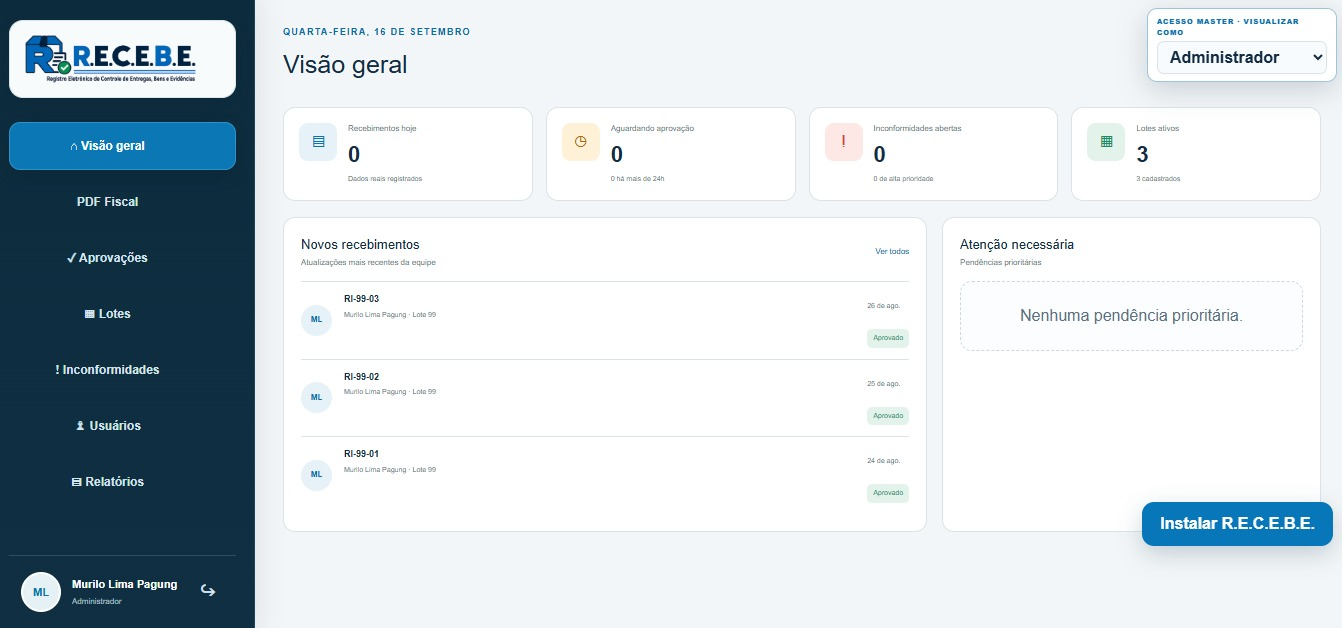
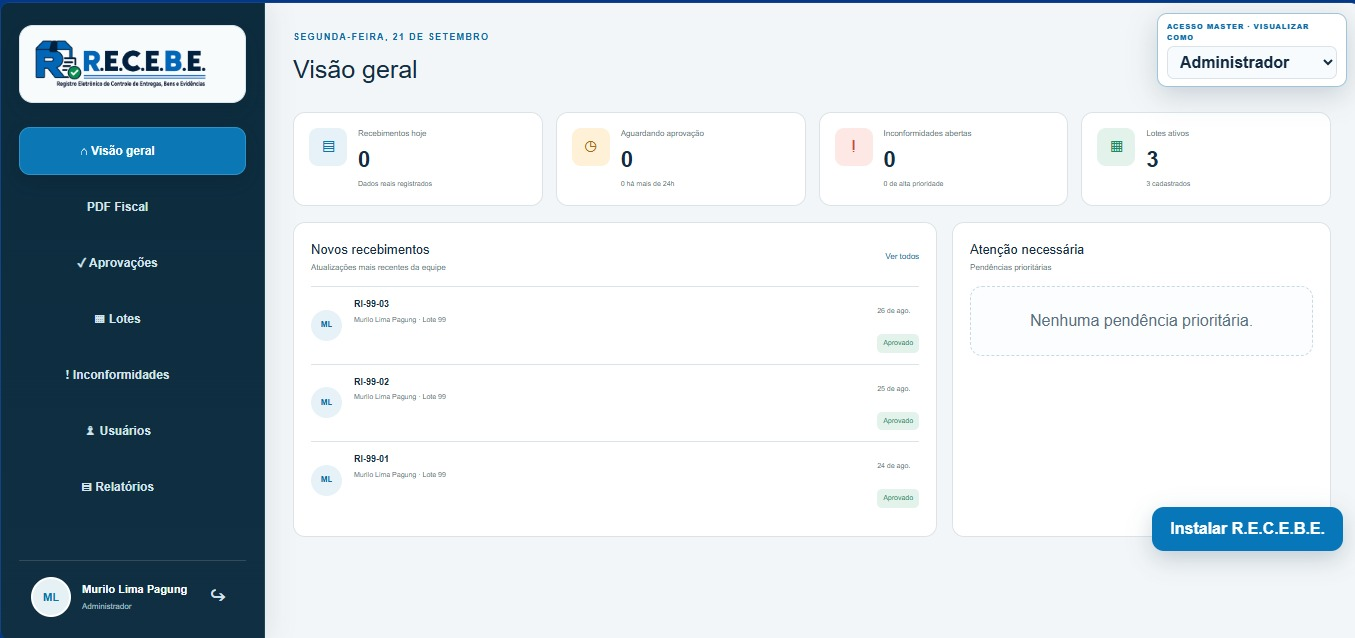
Update Site source

diff --git a/components/orbit-showcase.tsx b/components/orbit-showcase.tsx
@@ -5,35 +5,31 @@ import Link from "next/link";
 import { ArrowLeft, ArrowRight, Pause, Play } from "lucide-react";
 import { useEffect, useState } from "react";
 
-type Slide = { src: string; label: string; fit?: "contain" | "cover" };
-type Demo = { name: string; category: string; href: string; slides: Slide[] };
+type Slide = { src: string; label: string };
+type Demo = { name: string; summary: string; href: string; slides: Slide[] };
 
 const demos: Demo[] = [
-  { name: "M.I.R.A.", category: "Monitoramento e análise operacional", href: "/projetos/mira", slides: [
-    { src: "/images/demos/mira-entrada.jpeg", label: "Apresentação do sistema" },
-    { src: "/images/demos/mira-reservatorios.jpeg", label: "Visão dos reservatórios" },
-    { src: "/images/demos/mira-graficos.jpeg", label: "Análise das medições" },
+  { name: "M.I.R.A.", summary: "Sistema web para monitoramento e análise de reservatórios.", href: "/projetos/mira", slides: [
+    { src: "/images/demos/mira-entrada.jpeg", label: "Apresentação do M.I.R.A." },
+    { src: "/images/demos/mira-reservatorios.jpeg", label: "Monitoramento dos reservatórios" },
   ] },
-  { name: "R.E.C.E.B.E.", category: "Registro em campo e acompanhamento", href: "/projetos/recebe", slides: [
-    { src: "/images/demos/recebe-mobile.jpeg", label: "Registro mobile", fit: "contain" },
-    { src: "/images/demos/recebe-gestao.jpeg", label: "Visão administrativa" },
+  { name: "R.E.C.E.B.E.", summary: "Sistema web e mobile para registrar e acompanhar recebimentos em campo.", href: "/projetos/recebe", slides: [
+    { src: "/images/demos/recebe-gestao.jpeg", label: "Painel de gestão do R.E.C.E.B.E." },
+    { src: "/images/demos/recebe-em-campo.png", label: "Ilustração do uso mobile em campo" },
   ] },
-  { name: "P.R.I.S.M.A.", category: "Organização inteligente de documentos", href: "/projetos/prisma", slides: [
+  { name: "P.R.I.S.M.A.", summary: "Automação para conferir e organizar documentos de funcionários.", href: "/projetos/prisma", slides: [
     { src: "/images/demos/prisma-inicio.jpeg", label: "Seleção da rotina" },
-    { src: "/images/demos/prisma-recibos.jpeg", label: "Envio e conferência dos arquivos" },
-    { src: "/images/demos/prisma-instalador.jpeg", label: "Organização nas pastas corretas", fit: "contain" },
+    { src: "/images/demos/prisma-recibos.jpeg", label: "Envio e conferência dos documentos" },
   ] },
-  { name: "Analisador de Vendas", category: "Leitura gerencial de relatórios", href: "/projetos/analise-relatorios", slides: [
+  { name: "Analisador de Vendas", summary: "Sistema web para transformar relatórios de vendas em análises claras.", href: "/projetos/analise-relatorios", slides: [
     { src: "/images/demos/vendas-visao-geral.jpeg", label: "Visão geral das vendas" },
     { src: "/images/demos/vendas-detalhamento.jpeg", label: "Grupos e produtos mais vendidos" },
   ] },
-  { name: "PRUMO", category: "Análise da produção e viabilidade", href: "/projetos", slides: [
-    { src: "/images/demos/prumo-apresentacao.jpeg", label: "Apresentação da análise" },
-    { src: "/images/demos/prumo-analise.jpeg", label: "Análise da produção", fit: "contain" },
-    { src: "/images/demos/prumo-detalhe.jpeg", label: "Detalhes de custos e formatos" },
+  { name: "PRUMO", summary: "Sistema web para analisar custos, preços e viabilidade da produção.", href: "/projetos", slides: [
+    { src: "/images/demos/prumo-analise.jpeg", label: "Análise da produção" },
+    { src: "/images/demos/prumo-detalhe.jpeg", label: "Custos e formatos de venda" },
   ] },
 ];
-
 const order = [0, 1, 2, -2, -1];
 
 export default function OrbitShowcase() {
@@ -81,15 +77,14 @@ export default function OrbitShowcase() {
           const position = order[relative];
           const currentSlide = index === active ? slide : 0;
           return <button key={item.name} type="button" className={`orbit-screen orbit-position-${position === -2 ? "back-left" : position === -1 ? "left" : position === 0 ? "front" : position === 1 ? "right" : "back-right"}`} onClick={() => select(index)} aria-label={index === active ? `${item.name}: ${item.slides[currentSlide].label}` : `Mostrar ${item.name}`} aria-current={index === active ? "true" : undefined} tabIndex={index === active ? 0 : -1}>
-            <span className="orbit-screen-label">{item.name}</span>
             <span className="orbit-screen-media">
-              {item.slides.map((frame, frameIndex) => <span key={frame.src} className={`orbit-frame ${frameIndex === currentSlide ? "is-visible" : ""} ${frame.fit === "contain" ? "is-contained" : ""}`}><Image src={frame.src} alt={frame.label} fill sizes="(max-width: 900px) 100vw, 640px" priority={index === 0 && frameIndex === 0} /></span>)}
+              {item.slides.map((frame, frameIndex) => <span key={frame.src} className={`orbit-frame ${frameIndex === currentSlide ? "is-visible" : ""}`}><Image src={frame.src} alt={frame.label} fill sizes="(max-width: 900px) 100vw, 640px" priority={index === 0 && frameIndex === 0} /></span>)}
             </span>
           </button>;
         })}
       </div>
       <div className="orbit-details" aria-live="polite">
-        <div><span className="orbit-kicker">Demonstração em destaque</span><strong>{demo.name}</strong><p>{demo.category} · {demo.slides[slide].label}</p></div>
+        <div><strong>{demo.name}</strong><p>{demo.summary}</p></div>
         <Link href={demo.href}>Ver projeto <ArrowRight size={16} /></Link>
       </div>
       <div className="orbit-controls">

diff --git a/app/globals.css b/app/globals.css
@@ -34,3 +34,17 @@
 @media(max-width:900px){.hero{grid-template-columns:1fr;gap:45px}.orbit-showcase{max-width:690px;margin-inline:auto}}
 @media(max-width:600px){.orbit-viewport{height:280px}.orbit-screen{width:90%;height:210px}.orbit-position-left{transform:translate(-50%,-50%) translate3d(-32%,13px,-80px) scale(.64)}.orbit-position-right{transform:translate(-50%,-50%) translate3d(32%,13px,-80px) scale(.64)}.orbit-position-back-left,.orbit-position-back-right{opacity:.16}.orbit-details{min-height:101px;padding:11px 13px}.orbit-details strong{font-size:1.05rem}.orbit-details>a{font-size:.7rem}.orbit-details p{font-size:.68rem}}
 @media(prefers-reduced-motion:reduce){.orbit-screen,.orbit-frame,.orbit-dots button{transition:none!important}}
+/* Simpler, edge-to-edge project gallery */
+.orbit-viewport{height:390px;overflow:visible;border-radius:0;background:radial-gradient(ellipse at 50% 52%,rgba(19,107,124,.18),transparent 58%)}
+.orbit-screen{width:78%;height:270px;padding:0;gap:0;border-radius:12px;background:#0b1820;box-shadow:0 20px 45px rgba(0,0,0,.42)}
+.orbit-screen-media{width:100%;height:100%;flex:1;border-radius:inherit}
+.orbit-frame img{object-fit:cover;object-position:center}
+.orbit-position-left{transform:translate(-50%,-50%) translate3d(-53%,14px,-80px) scale(.72) rotateY(10deg);opacity:.82;filter:brightness(.85)}
+.orbit-position-right{transform:translate(-50%,-50%) translate3d(53%,14px,-80px) scale(.72) rotateY(-10deg);opacity:.82;filter:brightness(.85)}
+.orbit-position-back-left{transform:translate(-50%,-50%) translate3d(-32%,-100px,-220px) scale(.55) rotateY(8deg);opacity:.57;filter:brightness(.75)}
+.orbit-position-back-right{transform:translate(-50%,-50%) translate3d(32%,-100px,-220px) scale(.55) rotateY(-8deg);opacity:.57;filter:brightness(.75)}
+.orbit-details{min-height:86px;padding:13px 18px}
+.orbit-details strong{font-size:1.16rem;font-weight:700;margin:0}
+.orbit-details p{white-space:normal;overflow:visible;text-overflow:clip;font-size:.88rem;line-height:1.35;margin:3px 0 0}
+@media(max-width:900px){.orbit-viewport{overflow:hidden;border-radius:16px}.orbit-screen{width:76%}}
+@media(max-width:600px){.orbit-viewport{height:290px}.orbit-screen{width:86%;height:215px}.orbit-position-left{transform:translate(-50%,-50%) translate3d(-42%,12px,-80px) scale(.64);opacity:.78}.orbit-position-right{transform:translate(-50%,-50%) translate3d(42%,12px,-80px) scale(.64);opacity:.78}.orbit-position-back-left,.orbit-position-back-right{opacity:.36}.orbit-details{min-height:108px}.orbit-details p{font-size:.78rem}}
